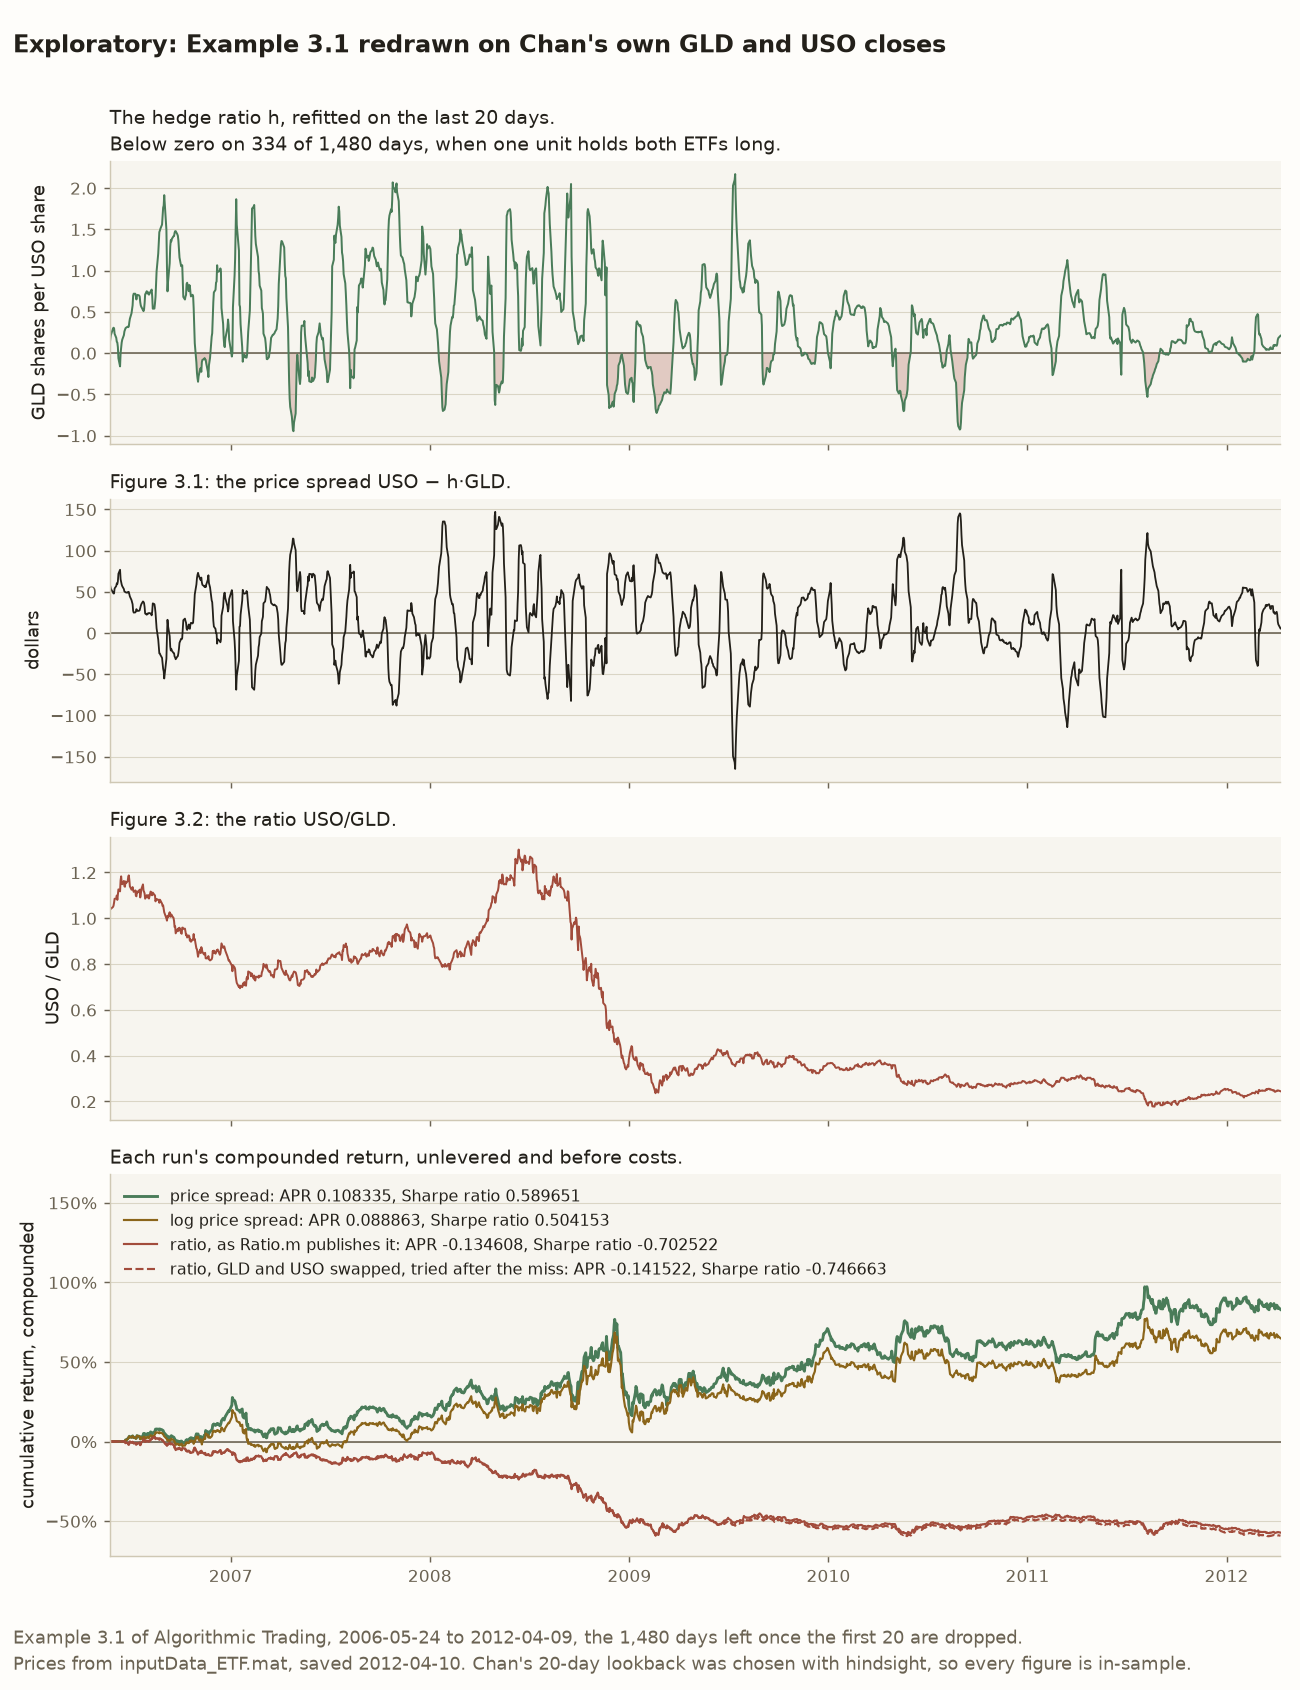
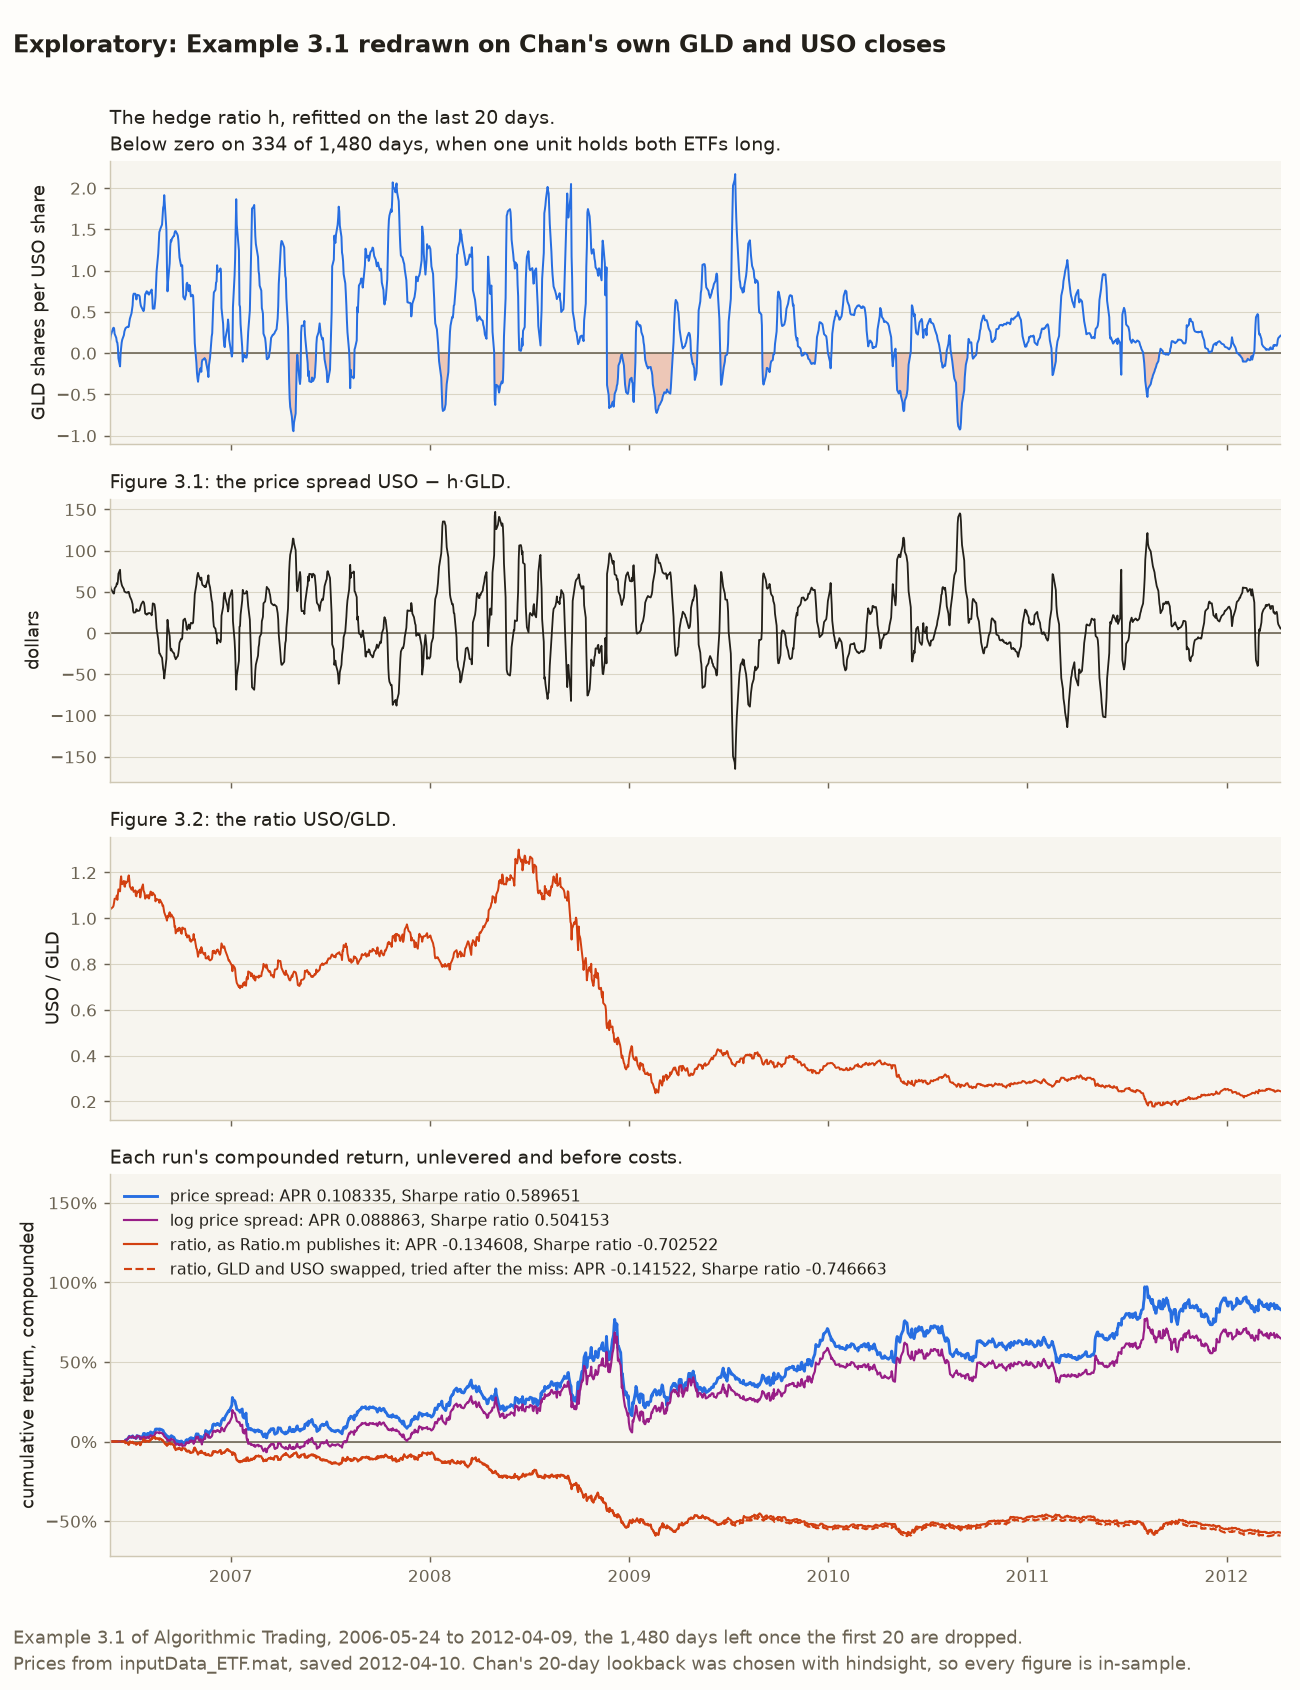
feat(palette): move the price spread post's chart and sketch to the colour-blind-safe palette (#743)
* feat(palette): move the price spread post's chart and sketch to the colour-blind-safe palette

The chart and the whiteboard sketch in blog/price-spread-ratio-lessons.md
now draw in chan.palette's berry, blue and vermilion. The sketch module
passes chan.palette.INKS to render and gives each c dot the new accent
explicitly, since _dot defaults to the shared brass. Both figures are
redrawn, and the alt text, caption and tests name the new colours. Two new
tests hold that the drawn and the committed GIF use the new inks' palette.

Part of #648

* test(palette): pin the price spread post's colour words and its two unpinned lines

The review of PR #743 found three colour words in the post that no test
held, "shaded vermilion" and "Vermilion shading" for the chart and "a berry
label reads" in the sketch's alt text, and two chart lines whose colour no
test checked, the hedge ratio and the ratio. Each now has a pin, and each
mutant that reverts one fails it.

Part of #648

---------

diff --git a/tests/test_price_spread_whiteboard.py b/tests/test_price_spread_whiteboard.py
@@ -55,6 +55,7 @@ from PIL import Image
 
 from chan import price_spread_whiteboard as sketch
 from chan import usdcad_tests_whiteboard as whiteboard
+from chan.palette import ACCENT, INKS
 from chan.paths import FIGURES_DIR, REPO_ROOT
 from chan.price_spread import LOOKBACK, X_SYMBOL, Y_SYMBOL, price_spread, read_sources
 from chan.price_spread_whiteboard import (
@@ -80,7 +81,7 @@ from chan.price_spread_whiteboard import (
     sketch_timeline,
     taller,
 )
-from chan.regime_figure import ACCENT, INK, MUTED
+from chan.regime_figure import INK, MUTED
 from chan.usdcad_tests_whiteboard import (
     HEIGHT,
     TITLE_MS,
@@ -340,12 +341,12 @@ class TestTheScene:
             assert stroke.points >= stroke.frames, stroke.gid
 
     def test_it_draws_no_tint(self, scene) -> None:
-        """A pale tint would need a green edge, and this sketch shades nothing."""
+        """A pale tint would need a blue edge, and this sketch shades nothing."""
         assert scene.fills == []
 
 
 class TestTheInks:
-    def test_c_is_brass_and_the_windows_grey_then_black(self, scene) -> None:
+    def test_c_is_berry_and_the_windows_grey_then_black(self, scene) -> None:
         """``c`` is the idea the sketch points at. The first window is context for the
         second, so it is grey, and the second, with its ``e``, is the main drawing."""
         colours = {s.gid: s.color for s in scene.strokes}
@@ -362,7 +363,7 @@ class TestTheInks:
         assert not (_stroke(scene, "fit-before").dashed or _stroke(scene, "fit-after").dashed)
 
     def test_each_label_takes_the_ink_of_what_it_names(self, scene) -> None:
-        """The arithmetic label and the change in ``h`` under it are brass like the
+        """The arithmetic label and the change in ``h`` under it are berry like the
         bracket beside them, though they name the grey span whose distance the first
         multiplies, and the whole run's two figures are black under a grey heading."""
         colours = {s.gid: s.color for s in scene.strokes}
@@ -699,8 +700,20 @@ class TestTheGifs:
         (again,) = make_price_spread_whiteboards(out_dir=tmp_path, lever=lever)
         assert gifs[0].read_bytes() == again.read_bytes()
 
+    def test_it_draws_on_the_palette_of_the_colour_blind_safe_inks(self, gifs) -> None:
+        """Without :data:`chan.palette.INKS`, ``render`` maps every frame onto the shared
+        inks, and the berry of each ``c`` lands on the nearest of them."""
+        with Image.open(gifs[0]) as image:
+            assert image.getpalette() == whiteboard.palette(INKS).getpalette()
+
 
 class TestTheCommittedGif:
+    def test_it_draws_on_the_palette_of_the_colour_blind_safe_inks(self) -> None:
+        """Unlike the byte-for-byte comparison, this holds on every machine, so a GIF
+        left in the shared inks fails wherever the suite runs."""
+        with Image.open(FIGURES_DIR / GIFS[0]) as image:
+            assert image.getpalette() == whiteboard.palette(INKS).getpalette()
+
     def test_the_figures_folder_holds_this_gif_under_its_prefix(self) -> None:
         """``tests/test_equity_seasonals_whiteboard.py`` holds that every GIF in the
         folder is one a sketch module draws."""
@@ -761,10 +774,11 @@ class TestThePost:
         assert "neither is broken" in alt and "a scale of its own" in alt
 
     def test_its_alt_text_names_the_inks_the_sketch_draws(self, scene) -> None:
-        """Brown for each ``c``, grey for the first window and black for the second."""
+        """Berry for each ``c``, grey for the first window and black for the second."""
         alt = _alt(scene)
         assert [_stroke(scene, g).color for g in ("c-before", "c-after")] == [ACCENT, ACCENT]
-        assert alt.count("brown dot") == 2
+        assert alt.count("berry dot") == 2
+        assert "a berry label reads “≈" in alt and _label(scene, "≈").color == ACCENT
         assert "a grey cloud" in alt and "A black cloud" in alt
         assert "a black ring circles the last black point" in alt
 
@@ -775,7 +789,7 @@ class TestThePost:
         assert "black line down to it" in alt and after.leftover < 0
         assert "line is steeper" in alt and after.hedge > before.hedge
         assert "lands much lower" in alt and after.intercept < before.intercept
-        assert "A brown bracket joins" in alt and _stroke(scene, "drop").color == ACCENT
+        assert "A berry bracket joins" in alt and _stroke(scene, "drop").color == ACCENT
         assert "Below a grey rule under the frame" in alt and RULE_Y < ZOOM_Y[0]
         assert "its five newest sit below the rest" in alt
         assert after.uso[-WEEK:].max() < after.uso[:-WEEK].min()

diff --git a/tests/test_price_spread_figures.py b/tests/test_price_spread_figures.py
@@ -21,12 +21,10 @@ from matplotlib.colors import same_color, to_rgb
 from matplotlib.dates import date2num
 
 from chan import price_spread_figures
-from chan.paths import FIGURES_DIR
+from chan.palette import ACCENT, GOOD, LOST
+from chan.paths import FIGURES_DIR, REPO_ROOT
 from chan.price_spread import example_three_one, read_sources
 from chan.price_spread_figures import (
-    ACCENT,
-    GOOD,
-    LOST,
     RUNS,
     SIGNALS_FIGURE,
     cumulative_return,
@@ -134,6 +132,20 @@ class TestTheSignals:
     def test_the_negative_days_are_shaded_in_lost(self, axes) -> None:
         shaded = _by_gid(axes["hedge"].collections)["negative"]
         assert same_color(to_rgb(shaded.get_facecolor()[0]), LOST)
+
+    def test_the_post_names_the_shading_by_the_colour_it_is_drawn_in(self, axes) -> None:
+        """The alt text and the caption call it vermilion, the colour ``LOST`` draws."""
+        post = (REPO_ROOT / "blog" / "price-spread-ratio-lessons.md").read_text(encoding="utf-8")
+        shaded = _by_gid(axes["hedge"].collections)["negative"]
+        assert same_color(to_rgb(shaded.get_facecolor()[0]), LOST)
+        assert "the stretches below zero shaded vermilion" in post
+        assert "Vermilion shading marks the days the hedge ratio is below zero" in post
+
+    def test_the_hedge_ratio_is_blue_and_the_ratio_vermilion(self, axes) -> None:
+        """The hedge ratio wears the price spread run's colour and the ratio its run's,
+        so the top three panels match the lines below them."""
+        assert same_color(_by_gid(axes["hedge"].lines)["hedge"].get_color(), GOOD)
+        assert same_color(_by_gid(axes["ratio"].lines)["ratio"].get_color(), LOST)
 
     def test_the_spread_and_returns_panels_mark_zero(self, axes) -> None:
         for name in ("spread", "returns"):

diff --git a/src/chan/price_spread_whiteboard.py b/src/chan/price_spread_whiteboard.py
@@ -63,6 +63,7 @@ from pathlib import Path
 import numpy as np
 import pandas as pd
 
+from chan.palette import ACCENT, INKS
 from chan.paths import FIGURES_DIR
 from chan.price_spread import (
     LOOKBACK,
@@ -72,7 +73,7 @@ from chan.price_spread import (
     read_sources,
     rolling_intercept,
 )
-from chan.regime_figure import ACCENT, INK, MUTED
+from chan.regime_figure import INK, MUTED
 from chan.series import WindowCrossesScaleBreak
 from chan.usdcad_tests_whiteboard import (
     Frame,
@@ -398,7 +399,7 @@ def _lever(lever: Lever) -> Scene:
                 size=11,
             ),
             _stroke("reach-before", _reach(before), color=MUTED, dashed=True, frames=8),
-            _dot("c-before", axis_x, c_before),
+            _dot("c-before", axis_x, c_before, color=ACCENT),
             Label(
                 f"c {_signed(before.intercept, 2)}",
                 left,
@@ -419,7 +420,7 @@ def _lever(lever: Lever) -> Scene:
                 size=11,
             ),
             _stroke("reach-after", _reach(after), color=INK, dashed=True, frames=8),
-            _dot("c-after", axis_x, c_after),
+            _dot("c-after", axis_x, c_after, color=ACCENT),
             Label(
                 f"c {_signed(after.intercept, 2)}",
                 left,
@@ -577,7 +578,7 @@ def sketch_timeline(scene: Scene) -> list[Frame]:
 
 def _write(scene: Scene, folder: Path) -> Path:
     frames = sketch_timeline(scene)
-    first, *rest = render(scene, frames)
+    first, *rest = render(scene, frames, INKS)
     path = folder / gif_name(scene)
     first.save(
         path,

diff --git a/src/chan/price_spread_figures.py b/src/chan/price_spread_figures.py
@@ -32,6 +32,7 @@ from matplotlib.figure import Figure
 from matplotlib.ticker import PercentFormatter
 
 from chan.coin_flip_figures import _plain_text, _save, _style, _title
+from chan.palette import ACCENT, GOOD, LOST
 from chan.paths import FIGURES_DIR
 from chan.price_spread import (
     LOOKBACK,
@@ -41,7 +42,7 @@ from chan.price_spread import (
     example_three_one,
     read_sources,
 )
-from chan.regime_figure import ACCENT, GOOD, INK, LOST, MUTED, SURFACE
+from chan.regime_figure import INK, MUTED, SURFACE
 from chan.series import WindowCrossesScaleBreak
 from chan.vintage import VintageUnavailable
 

diff --git a/blog/price-spread-ratio-lessons.md b/blog/price-spread-ratio-lessons.md
@@ -61,9 +61,9 @@ One figure in the book does not follow from its own script. The price spread’s
 
 The figure below redraws most of what the scripts plot. Its top panel adds the hedge ratio Lesson 4 turns to, which no script plots. Below it are the price spread and the ratio, which the book prints as Figures 3.1 and 3.2. The bottom panel is each run’s cumulative return, the line each script plots last. No check compares the figure with the charts in the book, so it shows what the scripts compute rather than a checked copy of Chan’s charts.
 
-![Four line charts stacked on one shared date axis from May 2006 to April 2012. The top chart is the 20-day hedge ratio, in GLD shares per USO share, swinging between −0.948 and 2.168 with a zero line marked and the stretches below zero shaded red. Its heading says it is below zero on 334 of 1,480 days, when one unit holds both ETFs long. The second chart, Figure 3.1, is the price spread USO minus h times GLD, in dollars, crossing zero again and again. The third chart, Figure 3.2, is the ratio USO over GLD, which starts at 1.03, peaks at 1.30, falls steeply through late 2008 and ends at 0.24 without returning. The bottom chart is each run’s compounded cumulative return, unlevered and before costs. The price spread and the log price spread both rise unevenly, the price spread ending higher. The ratio as published falls through 2008 and ends well below zero, and a dashed line for the ratio with GLD and USO swapped runs just below it. The legend sets each run’s APR and Sharpe ratio: 0.108335 and 0.589651, 0.088863 and 0.504153, −0.134608 and −0.702522, and −0.141522 and −0.746663. The title calls the redraw exploratory, and the note names Chan’s file and says the 20-day lookback was chosen with hindsight.](../docs/figures/price_spread_signals.png)
+![Four line charts stacked on one shared date axis from May 2006 to April 2012. The top chart is the 20-day hedge ratio, in GLD shares per USO share, swinging between −0.948 and 2.168 with a zero line marked and the stretches below zero shaded vermilion. Its heading says it is below zero on 334 of 1,480 days, when one unit holds both ETFs long. The second chart, Figure 3.1, is the price spread USO minus h times GLD, in dollars, crossing zero again and again. The third chart, Figure 3.2, is the ratio USO over GLD, which starts at 1.03, peaks at 1.30, falls steeply through late 2008 and ends at 0.24 without returning. The bottom chart is each run’s compounded cumulative return, unlevered and before costs. The price spread and the log price spread both rise unevenly, the price spread ending higher. The ratio as published falls through 2008 and ends well below zero, and a dashed line for the ratio with GLD and USO swapped runs just below it. The legend sets each run’s APR and Sharpe ratio: 0.108335 and 0.589651, 0.088863 and 0.504153, −0.134608 and −0.702522, and −0.141522 and −0.746663. The title calls the redraw exploratory, and the note names Chan’s file and says the 20-day lookback was chosen with hindsight.](../docs/figures/price_spread_signals.png)
 
-*The hedge ratio, the price spread, the ratio and each run’s cumulative return, redrawn on Chan’s file over the 1,480 traded days. Red shading marks the days the hedge ratio is below zero.*
+*The hedge ratio, the price spread, the ratio and each run’s cumulative return, redrawn on Chan’s file over the 1,480 traded days. Vermilion shading marks the days the hedge ratio is below zero.*
 
 ## Lesson 2: three signals, three portfolios
 
@@ -132,7 +132,7 @@ The spread is not the regression’s leftover. Each 20-day regression fits USO =
 2. **The leftover is small.** The spread’s standard deviation is 45.37 dollars and the leftover’s is 2.27, about a twentieth of it. Variance is the square of the standard deviation, so the leftover holds a quarter of a percent of the spread’s variance.
 3. **The leftover alone earns close to nothing.** Traded by the same rule, it gives an APR of −0.005130 and a Sharpe ratio of 0.082065. Both are near zero. Their signs differ because the APR compounds the daily returns while the Sharpe ratio averages them.
 
-![An animated whiteboard sketch titled “Why c carries the spread”, drawn slowly stroke by stroke. On the left, a grey vertical axis is labelled “USO”, and a second label, “GLD = 0”, says the axis stands where GLD is zero. A grey horizontal axis is labelled “GLD”. A small grey box sits near the right end of the GLD axis, around GLD of 91.5 dollars, and two grey lines run from it to a larger grey frame on the right that shows what is inside the box, magnified. Inside the frame’s top right, a grey label reads “12× taller”. In the frame, a grey cloud of 20 points appears with its fitted line, labelled “7 July, h 0.97”. On the left, the same line, grey and dashed, runs from the box back to the USO axis, where a brown dot is labelled “c −51.65”. A black cloud then appears in the frame, the second window, which shares fifteen days with the first. Fifteen of its points are the grey cloud’s own and turn black, and its five newest sit below the rest. The grey cloud’s five oldest stay grey, mostly at the top and right. The black cloud’s line is steeper and is labelled “14 July, h 2.17”. On the left, its dashed black line lands much lower on the USO axis, at a brown dot labelled “c −161.60”. A brown bracket joins the two dots, labelled “c fell 109.95”. A grey span along the GLD axis, from GLD = 0 to the clouds, is labelled “91.5 dollars”. Under “c fell 109.95”, a brown label reads “≈ 1.20 × 91.5”, and under that another reads “h rose 1.20”. In the frame, a black ring circles the last black point, and a short black tick runs from the black line down to it, labelled “e −3.21, a week before −2.71”. Below a grey rule under the frame, the sketch closes on three lines: “over all 1,480 traded days”, “correlation of c and the spread 0.9987” and “SD of the spread 45.37 dollars, of e 2.27”. Each axis on the left is drawn to its own linear scale, and neither is broken. The frame magnifies the points to a scale of its own. The finished sketch holds for twelve seconds before it redraws.](../docs/figures/price_spread_intercept_lever.gif)
+![An animated whiteboard sketch titled “Why c carries the spread”, drawn slowly stroke by stroke. On the left, a grey vertical axis is labelled “USO”, and a second label, “GLD = 0”, says the axis stands where GLD is zero. A grey horizontal axis is labelled “GLD”. A small grey box sits near the right end of the GLD axis, around GLD of 91.5 dollars, and two grey lines run from it to a larger grey frame on the right that shows what is inside the box, magnified. Inside the frame’s top right, a grey label reads “12× taller”. In the frame, a grey cloud of 20 points appears with its fitted line, labelled “7 July, h 0.97”. On the left, the same line, grey and dashed, runs from the box back to the USO axis, where a berry dot is labelled “c −51.65”. A black cloud then appears in the frame, the second window, which shares fifteen days with the first. Fifteen of its points are the grey cloud’s own and turn black, and its five newest sit below the rest. The grey cloud’s five oldest stay grey, mostly at the top and right. The black cloud’s line is steeper and is labelled “14 July, h 2.17”. On the left, its dashed black line lands much lower on the USO axis, at a berry dot labelled “c −161.60”. A berry bracket joins the two dots, labelled “c fell 109.95”. A grey span along the GLD axis, from GLD = 0 to the clouds, is labelled “91.5 dollars”. Under “c fell 109.95”, a berry label reads “≈ 1.20 × 91.5”, and under that another reads “h rose 1.20”. In the frame, a black ring circles the last black point, and a short black tick runs from the black line down to it, labelled “e −3.21, a week before −2.71”. Below a grey rule under the frame, the sketch closes on three lines: “over all 1,480 traded days”, “correlation of c and the spread 0.9987” and “SD of the spread 45.37 dollars, of e 2.27”. Each axis on the left is drawn to its own linear scale, and neither is broken. The frame magnifies the points to a scale of its own. The finished sketch holds for twelve seconds before it redraws.](../docs/figures/price_spread_intercept_lever.gif)
 
 *Two real 20-day windows from Chan’s file, ending 7 and 14 July 2009, the second on the day the spread is lowest in the whole run. Between them the slope h rose by 1.20, from 0.97 to 2.17. Both clouds sit about 91.5 dollars to the right of GLD = 0, where c is read. Steepening the line by 1.20 while it still runs through the clouds moved c down by about 1.20 × 91.5 dollars. Over the same week the leftover e on each window’s last day moved only from −2.71 to −3.21, so c makes up nearly all of the spread’s fall. Every figure comes from the run, and the three lines under the frame are figures over all 1,480 traded days, not over these two windows. The frame on the right draws each dollar of USO about 12 times taller than the left side does.*
 
